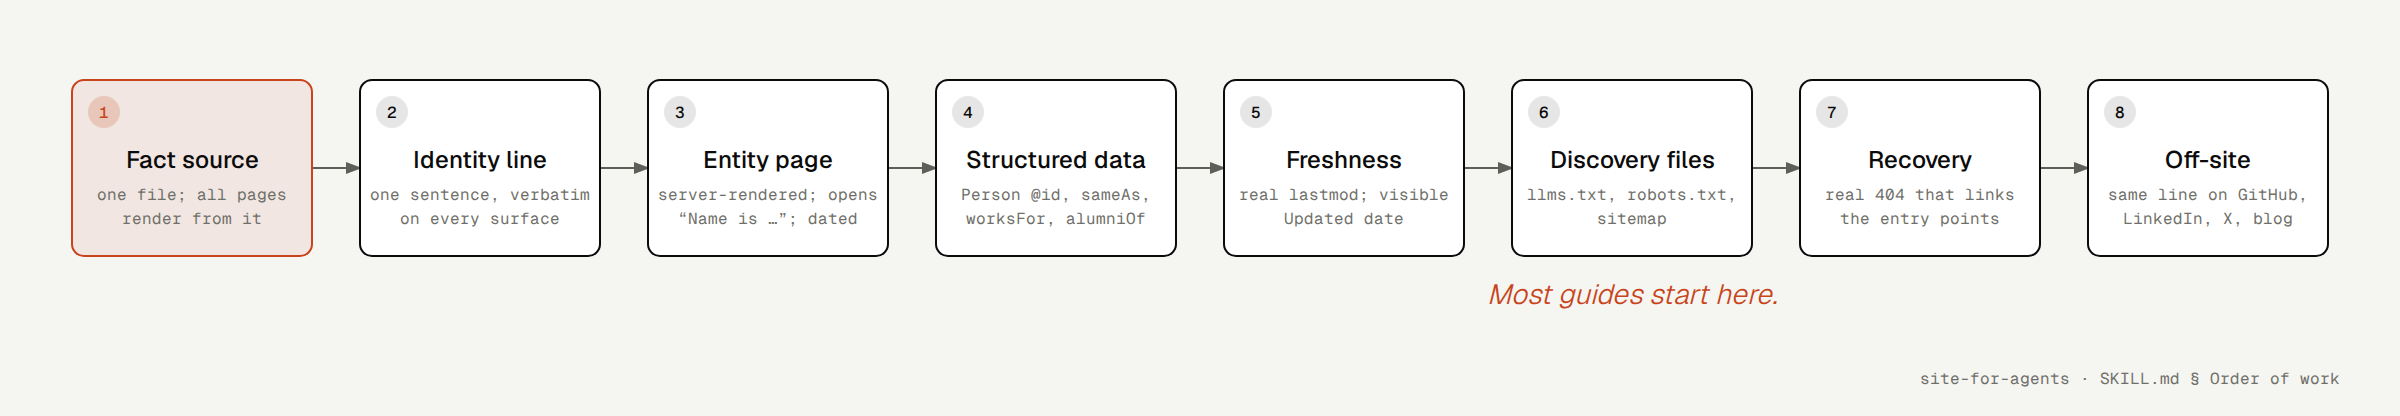
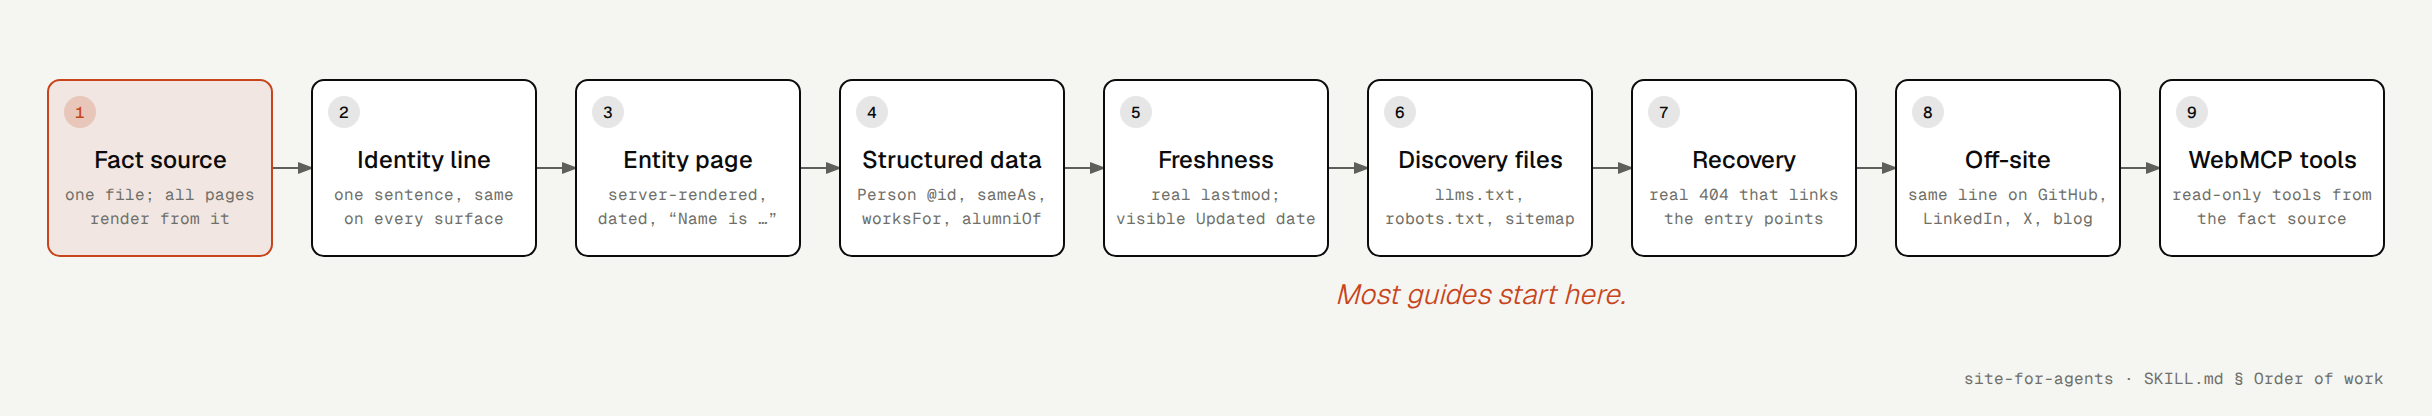
Order-of-work figure: nine steps, adds WebMCP tools

diff --git a/docs/diagrams/order-of-work-dark.html b/docs/diagrams/order-of-work-dark.html
@@ -3,7 +3,7 @@
 <head>
   <meta charset="UTF-8">
   <meta name="viewport" content="width=device-width, initial-scale=1.0">
-  <title>Eight steps, in order</title>
+  <title>Nine steps, in order</title>
   <link href="https://fonts.googleapis.com/css2?family=Geist:wght@300;400;500;600&family=Geist+Mono:wght@400;500;600&display=swap" rel="stylesheet">
   <style>
     *, *::before, *::after { box-sizing: border-box; margin: 0; padding: 0; }
@@ -23,81 +23,89 @@
 <body>
   <div class="frame">
     <p class="eyebrow">Process · site-for-agents</p>
-    <h1>Eight steps, in order</h1>
-    <svg viewBox="0 0 1200 208" xmlns="http://www.w3.org/2000/svg" role="img" aria-labelledby="order-dark-title order-dark-desc">
+    <h1>Nine steps, in order</h1>
+    <svg viewBox="0 0 1216 208" xmlns="http://www.w3.org/2000/svg" role="img" aria-labelledby="order-dark-title order-dark-desc">
       <title id="order-dark-title">Order of work for an agent-visible personal site</title>
-      <desc id="order-dark-desc">Eight sequential steps: fact source, identity line, entity page, structured data, freshness, discovery files, recovery, off-site profiles; llms.txt sits at step six, where most guides begin.</desc>
+      <desc id="order-dark-desc">Nine sequential steps: fact source, identity line, entity page, structured data, freshness, discovery files, recovery, off-site profiles, WebMCP tools; llms.txt sits at step six, where most guides begin.</desc>
       <defs>
         <marker id="arrow" markerWidth="8" markerHeight="6" refX="7" refY="3" orient="auto"><polygon points="0 0, 8 3, 0 6" fill="#92928c"/></marker>
         <marker id="arrow-accent" markerWidth="8" markerHeight="6" refX="7" refY="3" orient="auto"><polygon points="0 0, 8 3, 0 6" fill="#fe2c02"/></marker>
         <marker id="arrow-link" markerWidth="8" markerHeight="6" refX="7" refY="3" orient="auto"><polygon points="0 0, 8 3, 0 6" fill="#2e5aa8"/></marker>
       </defs>
       <rect width="100%" height="100%" fill="#0b0b0b"/>
-      <line x1="156" y1="84" x2="180" y2="84" stroke="#92928c" stroke-width="1" marker-end="url(#arrow)"/>
-      <line x1="300" y1="84" x2="324" y2="84" stroke="#92928c" stroke-width="1" marker-end="url(#arrow)"/>
-      <line x1="444" y1="84" x2="468" y2="84" stroke="#92928c" stroke-width="1" marker-end="url(#arrow)"/>
-      <line x1="588" y1="84" x2="612" y2="84" stroke="#92928c" stroke-width="1" marker-end="url(#arrow)"/>
-      <line x1="732" y1="84" x2="756" y2="84" stroke="#92928c" stroke-width="1" marker-end="url(#arrow)"/>
-      <line x1="876" y1="84" x2="900" y2="84" stroke="#92928c" stroke-width="1" marker-end="url(#arrow)"/>
-      <line x1="1020" y1="84" x2="1044" y2="84" stroke="#92928c" stroke-width="1" marker-end="url(#arrow)"/>
-      <rect x="36" y="40" width="120" height="88" rx="6" fill="#0b0b0b" />
-      <rect x="36" y="40" width="120" height="88" rx="6" fill="rgba(254,44,2,0.10)" stroke="#fe2c02" stroke-width="1" />
-      <rect x="44" y="48" width="16" height="16" rx="8" fill="rgba(254,44,2,0.20)"/>
-      <text x="52" y="59" fill="#fe2c02" font-size="8" font-weight="500" font-family="'Geist Mono', monospace" text-anchor="middle" >1</text>
-      <text x="96" y="84" fill="#f5f5f2" font-size="12" font-weight="500" font-family="'Geist', 'Atlas Grotesk', sans-serif" text-anchor="middle" >Fact source</text>
-      <text x="96" y="100" fill="#7c7c75" font-size="8" font-weight="400" font-family="'Geist Mono', monospace" text-anchor="middle" >one file; all pages</text>
-      <text x="96" y="112" fill="#7c7c75" font-size="8" font-weight="400" font-family="'Geist Mono', monospace" text-anchor="middle" >render from it</text>
-      <rect x="180" y="40" width="120" height="88" rx="6" fill="#0b0b0b" />
-      <rect x="180" y="40" width="120" height="88" rx="6" fill="#111111" stroke="#f5f5f2" stroke-width="1" />
-      <rect x="188" y="48" width="16" height="16" rx="8" fill="rgba(245,245,242,0.10)"/>
-      <text x="196" y="59" fill="#f5f5f2" font-size="8" font-weight="500" font-family="'Geist Mono', monospace" text-anchor="middle" >2</text>
-      <text x="240" y="84" fill="#f5f5f2" font-size="12" font-weight="500" font-family="'Geist', 'Atlas Grotesk', sans-serif" text-anchor="middle" >Identity line</text>
-      <text x="240" y="100" fill="#7c7c75" font-size="8" font-weight="400" font-family="'Geist Mono', monospace" text-anchor="middle" >one sentence, verbatim</text>
-      <text x="240" y="112" fill="#7c7c75" font-size="8" font-weight="400" font-family="'Geist Mono', monospace" text-anchor="middle" >on every surface</text>
-      <rect x="324" y="40" width="120" height="88" rx="6" fill="#0b0b0b" />
-      <rect x="324" y="40" width="120" height="88" rx="6" fill="#111111" stroke="#f5f5f2" stroke-width="1" />
-      <rect x="332" y="48" width="16" height="16" rx="8" fill="rgba(245,245,242,0.10)"/>
-      <text x="340" y="59" fill="#f5f5f2" font-size="8" font-weight="500" font-family="'Geist Mono', monospace" text-anchor="middle" >3</text>
-      <text x="384" y="84" fill="#f5f5f2" font-size="12" font-weight="500" font-family="'Geist', 'Atlas Grotesk', sans-serif" text-anchor="middle" >Entity page</text>
-      <text x="384" y="100" fill="#7c7c75" font-size="8" font-weight="400" font-family="'Geist Mono', monospace" text-anchor="middle" >server-rendered; opens</text>
-      <text x="384" y="112" fill="#7c7c75" font-size="8" font-weight="400" font-family="'Geist Mono', monospace" text-anchor="middle" >“Name is …”; dated</text>
-      <rect x="468" y="40" width="120" height="88" rx="6" fill="#0b0b0b" />
-      <rect x="468" y="40" width="120" height="88" rx="6" fill="#111111" stroke="#f5f5f2" stroke-width="1" />
-      <rect x="476" y="48" width="16" height="16" rx="8" fill="rgba(245,245,242,0.10)"/>
-      <text x="484" y="59" fill="#f5f5f2" font-size="8" font-weight="500" font-family="'Geist Mono', monospace" text-anchor="middle" >4</text>
-      <text x="528" y="84" fill="#f5f5f2" font-size="12" font-weight="500" font-family="'Geist', 'Atlas Grotesk', sans-serif" text-anchor="middle" >Structured data</text>
-      <text x="528" y="100" fill="#7c7c75" font-size="8" font-weight="400" font-family="'Geist Mono', monospace" text-anchor="middle" >Person @id, sameAs,</text>
-      <text x="528" y="112" fill="#7c7c75" font-size="8" font-weight="400" font-family="'Geist Mono', monospace" text-anchor="middle" >worksFor, alumniOf</text>
-      <rect x="612" y="40" width="120" height="88" rx="6" fill="#0b0b0b" />
-      <rect x="612" y="40" width="120" height="88" rx="6" fill="#111111" stroke="#f5f5f2" stroke-width="1" />
-      <rect x="620" y="48" width="16" height="16" rx="8" fill="rgba(245,245,242,0.10)"/>
-      <text x="628" y="59" fill="#f5f5f2" font-size="8" font-weight="500" font-family="'Geist Mono', monospace" text-anchor="middle" >5</text>
-      <text x="672" y="84" fill="#f5f5f2" font-size="12" font-weight="500" font-family="'Geist', 'Atlas Grotesk', sans-serif" text-anchor="middle" >Freshness</text>
-      <text x="672" y="100" fill="#7c7c75" font-size="8" font-weight="400" font-family="'Geist Mono', monospace" text-anchor="middle" >real lastmod; visible</text>
-      <text x="672" y="112" fill="#7c7c75" font-size="8" font-weight="400" font-family="'Geist Mono', monospace" text-anchor="middle" >Updated date</text>
-      <rect x="756" y="40" width="120" height="88" rx="6" fill="#0b0b0b" />
-      <rect x="756" y="40" width="120" height="88" rx="6" fill="#111111" stroke="#f5f5f2" stroke-width="1" />
-      <rect x="764" y="48" width="16" height="16" rx="8" fill="rgba(245,245,242,0.10)"/>
-      <text x="772" y="59" fill="#f5f5f2" font-size="8" font-weight="500" font-family="'Geist Mono', monospace" text-anchor="middle" >6</text>
-      <text x="816" y="84" fill="#f5f5f2" font-size="12" font-weight="500" font-family="'Geist', 'Atlas Grotesk', sans-serif" text-anchor="middle" >Discovery files</text>
-      <text x="816" y="100" fill="#7c7c75" font-size="8" font-weight="400" font-family="'Geist Mono', monospace" text-anchor="middle" >llms.txt, robots.txt,</text>
-      <text x="816" y="112" fill="#7c7c75" font-size="8" font-weight="400" font-family="'Geist Mono', monospace" text-anchor="middle" >sitemap</text>
-      <rect x="900" y="40" width="120" height="88" rx="6" fill="#0b0b0b" />
-      <rect x="900" y="40" width="120" height="88" rx="6" fill="#111111" stroke="#f5f5f2" stroke-width="1" />
-      <rect x="908" y="48" width="16" height="16" rx="8" fill="rgba(245,245,242,0.10)"/>
-      <text x="916" y="59" fill="#f5f5f2" font-size="8" font-weight="500" font-family="'Geist Mono', monospace" text-anchor="middle" >7</text>
-      <text x="960" y="84" fill="#f5f5f2" font-size="12" font-weight="500" font-family="'Geist', 'Atlas Grotesk', sans-serif" text-anchor="middle" >Recovery</text>
-      <text x="960" y="100" fill="#7c7c75" font-size="8" font-weight="400" font-family="'Geist Mono', monospace" text-anchor="middle" >real 404 that links</text>
-      <text x="960" y="112" fill="#7c7c75" font-size="8" font-weight="400" font-family="'Geist Mono', monospace" text-anchor="middle" >the entry points</text>
-      <rect x="1044" y="40" width="120" height="88" rx="6" fill="#0b0b0b" />
-      <rect x="1044" y="40" width="120" height="88" rx="6" fill="#111111" stroke="#f5f5f2" stroke-width="1" />
-      <rect x="1052" y="48" width="16" height="16" rx="8" fill="rgba(245,245,242,0.10)"/>
-      <text x="1060" y="59" fill="#f5f5f2" font-size="8" font-weight="500" font-family="'Geist Mono', monospace" text-anchor="middle" >8</text>
-      <text x="1104" y="84" fill="#f5f5f2" font-size="12" font-weight="500" font-family="'Geist', 'Atlas Grotesk', sans-serif" text-anchor="middle" >Off-site</text>
-      <text x="1104" y="100" fill="#7c7c75" font-size="8" font-weight="400" font-family="'Geist Mono', monospace" text-anchor="middle" >same line on GitHub,</text>
-      <text x="1104" y="112" fill="#7c7c75" font-size="8" font-weight="400" font-family="'Geist Mono', monospace" text-anchor="middle" >LinkedIn, X, blog</text>
-      <text x="816" y="152" fill="#fe2c02" font-size="14" font-weight="300" font-family="'Geist', 'Atlas Grotesk', sans-serif" text-anchor="middle" font-style="italic">Most guides start here.</text>
-      <text x="1170" y="192" fill="#7c7c75" font-size="8" font-weight="400" font-family="'Geist Mono', monospace" text-anchor="end" >site-for-agents · SKILL.md § Order of work</text>
+      <line x1="136" y1="84" x2="156" y2="84" stroke="#92928c" stroke-width="1" marker-end="url(#arrow)"/>
+      <line x1="268" y1="84" x2="288" y2="84" stroke="#92928c" stroke-width="1" marker-end="url(#arrow)"/>
+      <line x1="400" y1="84" x2="420" y2="84" stroke="#92928c" stroke-width="1" marker-end="url(#arrow)"/>
+      <line x1="532" y1="84" x2="552" y2="84" stroke="#92928c" stroke-width="1" marker-end="url(#arrow)"/>
+      <line x1="664" y1="84" x2="684" y2="84" stroke="#92928c" stroke-width="1" marker-end="url(#arrow)"/>
+      <line x1="796" y1="84" x2="816" y2="84" stroke="#92928c" stroke-width="1" marker-end="url(#arrow)"/>
+      <line x1="928" y1="84" x2="948" y2="84" stroke="#92928c" stroke-width="1" marker-end="url(#arrow)"/>
+      <line x1="1060" y1="84" x2="1080" y2="84" stroke="#92928c" stroke-width="1" marker-end="url(#arrow)"/>
+      <rect x="24" y="40" width="112" height="88" rx="6" fill="#0b0b0b" />
+      <rect x="24" y="40" width="112" height="88" rx="6" fill="rgba(254,44,2,0.10)" stroke="#fe2c02" stroke-width="1" />
+      <rect x="32" y="48" width="16" height="16" rx="8" fill="rgba(254,44,2,0.20)"/>
+      <text x="40" y="59" fill="#fe2c02" font-size="8" font-weight="500" font-family="'Geist Mono', monospace" text-anchor="middle" >1</text>
+      <text x="80" y="84" fill="#f5f5f2" font-size="12" font-weight="500" font-family="'Geist', 'Atlas Grotesk', sans-serif" text-anchor="middle" >Fact source</text>
+      <text x="80" y="100" fill="#7c7c75" font-size="8" font-weight="400" font-family="'Geist Mono', monospace" text-anchor="middle" >one file; all pages</text>
+      <text x="80" y="112" fill="#7c7c75" font-size="8" font-weight="400" font-family="'Geist Mono', monospace" text-anchor="middle" >render from it</text>
+      <rect x="156" y="40" width="112" height="88" rx="6" fill="#0b0b0b" />
+      <rect x="156" y="40" width="112" height="88" rx="6" fill="#111111" stroke="#f5f5f2" stroke-width="1" />
+      <rect x="164" y="48" width="16" height="16" rx="8" fill="rgba(245,245,242,0.10)"/>
+      <text x="172" y="59" fill="#f5f5f2" font-size="8" font-weight="500" font-family="'Geist Mono', monospace" text-anchor="middle" >2</text>
+      <text x="212" y="84" fill="#f5f5f2" font-size="12" font-weight="500" font-family="'Geist', 'Atlas Grotesk', sans-serif" text-anchor="middle" >Identity line</text>
+      <text x="212" y="100" fill="#7c7c75" font-size="8" font-weight="400" font-family="'Geist Mono', monospace" text-anchor="middle" >one sentence, same</text>
+      <text x="212" y="112" fill="#7c7c75" font-size="8" font-weight="400" font-family="'Geist Mono', monospace" text-anchor="middle" >on every surface</text>
+      <rect x="288" y="40" width="112" height="88" rx="6" fill="#0b0b0b" />
+      <rect x="288" y="40" width="112" height="88" rx="6" fill="#111111" stroke="#f5f5f2" stroke-width="1" />
+      <rect x="296" y="48" width="16" height="16" rx="8" fill="rgba(245,245,242,0.10)"/>
+      <text x="304" y="59" fill="#f5f5f2" font-size="8" font-weight="500" font-family="'Geist Mono', monospace" text-anchor="middle" >3</text>
+      <text x="344" y="84" fill="#f5f5f2" font-size="12" font-weight="500" font-family="'Geist', 'Atlas Grotesk', sans-serif" text-anchor="middle" >Entity page</text>
+      <text x="344" y="100" fill="#7c7c75" font-size="8" font-weight="400" font-family="'Geist Mono', monospace" text-anchor="middle" >server-rendered,</text>
+      <text x="344" y="112" fill="#7c7c75" font-size="8" font-weight="400" font-family="'Geist Mono', monospace" text-anchor="middle" >dated, “Name is …”</text>
+      <rect x="420" y="40" width="112" height="88" rx="6" fill="#0b0b0b" />
+      <rect x="420" y="40" width="112" height="88" rx="6" fill="#111111" stroke="#f5f5f2" stroke-width="1" />
+      <rect x="428" y="48" width="16" height="16" rx="8" fill="rgba(245,245,242,0.10)"/>
+      <text x="436" y="59" fill="#f5f5f2" font-size="8" font-weight="500" font-family="'Geist Mono', monospace" text-anchor="middle" >4</text>
+      <text x="476" y="84" fill="#f5f5f2" font-size="12" font-weight="500" font-family="'Geist', 'Atlas Grotesk', sans-serif" text-anchor="middle" >Structured data</text>
+      <text x="476" y="100" fill="#7c7c75" font-size="8" font-weight="400" font-family="'Geist Mono', monospace" text-anchor="middle" >Person @id, sameAs,</text>
+      <text x="476" y="112" fill="#7c7c75" font-size="8" font-weight="400" font-family="'Geist Mono', monospace" text-anchor="middle" >worksFor, alumniOf</text>
+      <rect x="552" y="40" width="112" height="88" rx="6" fill="#0b0b0b" />
+      <rect x="552" y="40" width="112" height="88" rx="6" fill="#111111" stroke="#f5f5f2" stroke-width="1" />
+      <rect x="560" y="48" width="16" height="16" rx="8" fill="rgba(245,245,242,0.10)"/>
+      <text x="568" y="59" fill="#f5f5f2" font-size="8" font-weight="500" font-family="'Geist Mono', monospace" text-anchor="middle" >5</text>
+      <text x="608" y="84" fill="#f5f5f2" font-size="12" font-weight="500" font-family="'Geist', 'Atlas Grotesk', sans-serif" text-anchor="middle" >Freshness</text>
+      <text x="608" y="100" fill="#7c7c75" font-size="8" font-weight="400" font-family="'Geist Mono', monospace" text-anchor="middle" >real lastmod;</text>
+      <text x="608" y="112" fill="#7c7c75" font-size="8" font-weight="400" font-family="'Geist Mono', monospace" text-anchor="middle" >visible Updated date</text>
+      <rect x="684" y="40" width="112" height="88" rx="6" fill="#0b0b0b" />
+      <rect x="684" y="40" width="112" height="88" rx="6" fill="#111111" stroke="#f5f5f2" stroke-width="1" />
+      <rect x="692" y="48" width="16" height="16" rx="8" fill="rgba(245,245,242,0.10)"/>
+      <text x="700" y="59" fill="#f5f5f2" font-size="8" font-weight="500" font-family="'Geist Mono', monospace" text-anchor="middle" >6</text>
+      <text x="740" y="84" fill="#f5f5f2" font-size="12" font-weight="500" font-family="'Geist', 'Atlas Grotesk', sans-serif" text-anchor="middle" >Discovery files</text>
+      <text x="740" y="100" fill="#7c7c75" font-size="8" font-weight="400" font-family="'Geist Mono', monospace" text-anchor="middle" >llms.txt,</text>
+      <text x="740" y="112" fill="#7c7c75" font-size="8" font-weight="400" font-family="'Geist Mono', monospace" text-anchor="middle" >robots.txt, sitemap</text>
+      <rect x="816" y="40" width="112" height="88" rx="6" fill="#0b0b0b" />
+      <rect x="816" y="40" width="112" height="88" rx="6" fill="#111111" stroke="#f5f5f2" stroke-width="1" />
+      <rect x="824" y="48" width="16" height="16" rx="8" fill="rgba(245,245,242,0.10)"/>
+      <text x="832" y="59" fill="#f5f5f2" font-size="8" font-weight="500" font-family="'Geist Mono', monospace" text-anchor="middle" >7</text>
+      <text x="872" y="84" fill="#f5f5f2" font-size="12" font-weight="500" font-family="'Geist', 'Atlas Grotesk', sans-serif" text-anchor="middle" >Recovery</text>
+      <text x="872" y="100" fill="#7c7c75" font-size="8" font-weight="400" font-family="'Geist Mono', monospace" text-anchor="middle" >real 404 that links</text>
+      <text x="872" y="112" fill="#7c7c75" font-size="8" font-weight="400" font-family="'Geist Mono', monospace" text-anchor="middle" >the entry points</text>
+      <rect x="948" y="40" width="112" height="88" rx="6" fill="#0b0b0b" />
+      <rect x="948" y="40" width="112" height="88" rx="6" fill="#111111" stroke="#f5f5f2" stroke-width="1" />
+      <rect x="956" y="48" width="16" height="16" rx="8" fill="rgba(245,245,242,0.10)"/>
+      <text x="964" y="59" fill="#f5f5f2" font-size="8" font-weight="500" font-family="'Geist Mono', monospace" text-anchor="middle" >8</text>
+      <text x="1004" y="84" fill="#f5f5f2" font-size="12" font-weight="500" font-family="'Geist', 'Atlas Grotesk', sans-serif" text-anchor="middle" >Off-site</text>
+      <text x="1004" y="100" fill="#7c7c75" font-size="8" font-weight="400" font-family="'Geist Mono', monospace" text-anchor="middle" >same line on GitHub,</text>
+      <text x="1004" y="112" fill="#7c7c75" font-size="8" font-weight="400" font-family="'Geist Mono', monospace" text-anchor="middle" >LinkedIn, X, blog</text>
+      <rect x="1080" y="40" width="112" height="88" rx="6" fill="#0b0b0b" />
+      <rect x="1080" y="40" width="112" height="88" rx="6" fill="#111111" stroke="#f5f5f2" stroke-width="1" />
+      <rect x="1088" y="48" width="16" height="16" rx="8" fill="rgba(245,245,242,0.10)"/>
+      <text x="1096" y="59" fill="#f5f5f2" font-size="8" font-weight="500" font-family="'Geist Mono', monospace" text-anchor="middle" >9</text>
+      <text x="1136" y="84" fill="#f5f5f2" font-size="12" font-weight="500" font-family="'Geist', 'Atlas Grotesk', sans-serif" text-anchor="middle" >WebMCP tools</text>
+      <text x="1136" y="100" fill="#7c7c75" font-size="8" font-weight="400" font-family="'Geist Mono', monospace" text-anchor="middle" >read-only tools from</text>
+      <text x="1136" y="112" fill="#7c7c75" font-size="8" font-weight="400" font-family="'Geist Mono', monospace" text-anchor="middle" >the fact source</text>
+      <text x="740" y="152" fill="#fe2c02" font-size="14" font-weight="300" font-family="'Geist', 'Atlas Grotesk', sans-serif" text-anchor="middle" font-style="italic">Most guides start here.</text>
+      <text x="1192" y="192" fill="#7c7c75" font-size="8" font-weight="400" font-family="'Geist Mono', monospace" text-anchor="end" >site-for-agents · SKILL.md § Order of work</text>
     </svg>
   </div>
 </body>

diff --git a/docs/diagrams/order-of-work.html b/docs/diagrams/order-of-work.html
@@ -3,7 +3,7 @@
 <head>
   <meta charset="UTF-8">
   <meta name="viewport" content="width=device-width, initial-scale=1.0">
-  <title>Eight steps, in order</title>
+  <title>Nine steps, in order</title>
   <link href="https://fonts.googleapis.com/css2?family=Geist:wght@300;400;500;600&family=Geist+Mono:wght@400;500;600&display=swap" rel="stylesheet">
   <style>
     *, *::before, *::after { box-sizing: border-box; margin: 0; padding: 0; }
@@ -23,81 +23,89 @@
 <body>
   <div class="frame">
     <p class="eyebrow">Process · site-for-agents</p>
-    <h1>Eight steps, in order</h1>
-    <svg viewBox="0 0 1200 208" xmlns="http://www.w3.org/2000/svg" role="img" aria-labelledby="order-title order-desc">
+    <h1>Nine steps, in order</h1>
+    <svg viewBox="0 0 1216 208" xmlns="http://www.w3.org/2000/svg" role="img" aria-labelledby="order-title order-desc">
       <title id="order-title">Order of work for an agent-visible personal site</title>
-      <desc id="order-desc">Eight sequential steps: fact source, identity line, entity page, structured data, freshness, discovery files, recovery, off-site profiles; llms.txt sits at step six, where most guides begin.</desc>
+      <desc id="order-desc">Nine sequential steps: fact source, identity line, entity page, structured data, freshness, discovery files, recovery, off-site profiles, WebMCP tools; llms.txt sits at step six, where most guides begin.</desc>
       <defs>
         <marker id="arrow" markerWidth="8" markerHeight="6" refX="7" refY="3" orient="auto"><polygon points="0 0, 8 3, 0 6" fill="#5f5f5a"/></marker>
         <marker id="arrow-accent" markerWidth="8" markerHeight="6" refX="7" refY="3" orient="auto"><polygon points="0 0, 8 3, 0 6" fill="#c8441a"/></marker>
         <marker id="arrow-link" markerWidth="8" markerHeight="6" refX="7" refY="3" orient="auto"><polygon points="0 0, 8 3, 0 6" fill="#2e5aa8"/></marker>
       </defs>
       <rect width="100%" height="100%" fill="#f5f5f2"/>
-      <line x1="156" y1="84" x2="180" y2="84" stroke="#5f5f5a" stroke-width="1" marker-end="url(#arrow)"/>
-      <line x1="300" y1="84" x2="324" y2="84" stroke="#5f5f5a" stroke-width="1" marker-end="url(#arrow)"/>
-      <line x1="444" y1="84" x2="468" y2="84" stroke="#5f5f5a" stroke-width="1" marker-end="url(#arrow)"/>
-      <line x1="588" y1="84" x2="612" y2="84" stroke="#5f5f5a" stroke-width="1" marker-end="url(#arrow)"/>
-      <line x1="732" y1="84" x2="756" y2="84" stroke="#5f5f5a" stroke-width="1" marker-end="url(#arrow)"/>
-      <line x1="876" y1="84" x2="900" y2="84" stroke="#5f5f5a" stroke-width="1" marker-end="url(#arrow)"/>
-      <line x1="1020" y1="84" x2="1044" y2="84" stroke="#5f5f5a" stroke-width="1" marker-end="url(#arrow)"/>
-      <rect x="36" y="40" width="120" height="88" rx="6" fill="#f5f5f2" />
-      <rect x="36" y="40" width="120" height="88" rx="6" fill="rgba(200,68,26,0.08)" stroke="#c8441a" stroke-width="1" />
-      <rect x="44" y="48" width="16" height="16" rx="8" fill="rgba(200,68,26,0.20)"/>
-      <text x="52" y="59" fill="#c8441a" font-size="8" font-weight="500" font-family="'Geist Mono', monospace" text-anchor="middle" >1</text>
-      <text x="96" y="84" fill="#0b0b0b" font-size="12" font-weight="500" font-family="'Geist', 'Atlas Grotesk', sans-serif" text-anchor="middle" >Fact source</text>
-      <text x="96" y="100" fill="#6f6f69" font-size="8" font-weight="400" font-family="'Geist Mono', monospace" text-anchor="middle" >one file; all pages</text>
-      <text x="96" y="112" fill="#6f6f69" font-size="8" font-weight="400" font-family="'Geist Mono', monospace" text-anchor="middle" >render from it</text>
-      <rect x="180" y="40" width="120" height="88" rx="6" fill="#f5f5f2" />
-      <rect x="180" y="40" width="120" height="88" rx="6" fill="#ffffff" stroke="#0b0b0b" stroke-width="1" />
-      <rect x="188" y="48" width="16" height="16" rx="8" fill="rgba(11,11,11,0.10)"/>
-      <text x="196" y="59" fill="#0b0b0b" font-size="8" font-weight="500" font-family="'Geist Mono', monospace" text-anchor="middle" >2</text>
-      <text x="240" y="84" fill="#0b0b0b" font-size="12" font-weight="500" font-family="'Geist', 'Atlas Grotesk', sans-serif" text-anchor="middle" >Identity line</text>
-      <text x="240" y="100" fill="#6f6f69" font-size="8" font-weight="400" font-family="'Geist Mono', monospace" text-anchor="middle" >one sentence, verbatim</text>
-      <text x="240" y="112" fill="#6f6f69" font-size="8" font-weight="400" font-family="'Geist Mono', monospace" text-anchor="middle" >on every surface</text>
-      <rect x="324" y="40" width="120" height="88" rx="6" fill="#f5f5f2" />
-      <rect x="324" y="40" width="120" height="88" rx="6" fill="#ffffff" stroke="#0b0b0b" stroke-width="1" />
-      <rect x="332" y="48" width="16" height="16" rx="8" fill="rgba(11,11,11,0.10)"/>
-      <text x="340" y="59" fill="#0b0b0b" font-size="8" font-weight="500" font-family="'Geist Mono', monospace" text-anchor="middle" >3</text>
-      <text x="384" y="84" fill="#0b0b0b" font-size="12" font-weight="500" font-family="'Geist', 'Atlas Grotesk', sans-serif" text-anchor="middle" >Entity page</text>
-      <text x="384" y="100" fill="#6f6f69" font-size="8" font-weight="400" font-family="'Geist Mono', monospace" text-anchor="middle" >server-rendered; opens</text>
-      <text x="384" y="112" fill="#6f6f69" font-size="8" font-weight="400" font-family="'Geist Mono', monospace" text-anchor="middle" >“Name is …”; dated</text>
-      <rect x="468" y="40" width="120" height="88" rx="6" fill="#f5f5f2" />
-      <rect x="468" y="40" width="120" height="88" rx="6" fill="#ffffff" stroke="#0b0b0b" stroke-width="1" />
-      <rect x="476" y="48" width="16" height="16" rx="8" fill="rgba(11,11,11,0.10)"/>
-      <text x="484" y="59" fill="#0b0b0b" font-size="8" font-weight="500" font-family="'Geist Mono', monospace" text-anchor="middle" >4</text>
-      <text x="528" y="84" fill="#0b0b0b" font-size="12" font-weight="500" font-family="'Geist', 'Atlas Grotesk', sans-serif" text-anchor="middle" >Structured data</text>
-      <text x="528" y="100" fill="#6f6f69" font-size="8" font-weight="400" font-family="'Geist Mono', monospace" text-anchor="middle" >Person @id, sameAs,</text>
-      <text x="528" y="112" fill="#6f6f69" font-size="8" font-weight="400" font-family="'Geist Mono', monospace" text-anchor="middle" >worksFor, alumniOf</text>
-      <rect x="612" y="40" width="120" height="88" rx="6" fill="#f5f5f2" />
-      <rect x="612" y="40" width="120" height="88" rx="6" fill="#ffffff" stroke="#0b0b0b" stroke-width="1" />
-      <rect x="620" y="48" width="16" height="16" rx="8" fill="rgba(11,11,11,0.10)"/>
-      <text x="628" y="59" fill="#0b0b0b" font-size="8" font-weight="500" font-family="'Geist Mono', monospace" text-anchor="middle" >5</text>
-      <text x="672" y="84" fill="#0b0b0b" font-size="12" font-weight="500" font-family="'Geist', 'Atlas Grotesk', sans-serif" text-anchor="middle" >Freshness</text>
-      <text x="672" y="100" fill="#6f6f69" font-size="8" font-weight="400" font-family="'Geist Mono', monospace" text-anchor="middle" >real lastmod; visible</text>
-      <text x="672" y="112" fill="#6f6f69" font-size="8" font-weight="400" font-family="'Geist Mono', monospace" text-anchor="middle" >Updated date</text>
-      <rect x="756" y="40" width="120" height="88" rx="6" fill="#f5f5f2" />
-      <rect x="756" y="40" width="120" height="88" rx="6" fill="#ffffff" stroke="#0b0b0b" stroke-width="1" />
-      <rect x="764" y="48" width="16" height="16" rx="8" fill="rgba(11,11,11,0.10)"/>
-      <text x="772" y="59" fill="#0b0b0b" font-size="8" font-weight="500" font-family="'Geist Mono', monospace" text-anchor="middle" >6</text>
-      <text x="816" y="84" fill="#0b0b0b" font-size="12" font-weight="500" font-family="'Geist', 'Atlas Grotesk', sans-serif" text-anchor="middle" >Discovery files</text>
-      <text x="816" y="100" fill="#6f6f69" font-size="8" font-weight="400" font-family="'Geist Mono', monospace" text-anchor="middle" >llms.txt, robots.txt,</text>
-      <text x="816" y="112" fill="#6f6f69" font-size="8" font-weight="400" font-family="'Geist Mono', monospace" text-anchor="middle" >sitemap</text>
-      <rect x="900" y="40" width="120" height="88" rx="6" fill="#f5f5f2" />
-      <rect x="900" y="40" width="120" height="88" rx="6" fill="#ffffff" stroke="#0b0b0b" stroke-width="1" />
-      <rect x="908" y="48" width="16" height="16" rx="8" fill="rgba(11,11,11,0.10)"/>
-      <text x="916" y="59" fill="#0b0b0b" font-size="8" font-weight="500" font-family="'Geist Mono', monospace" text-anchor="middle" >7</text>
-      <text x="960" y="84" fill="#0b0b0b" font-size="12" font-weight="500" font-family="'Geist', 'Atlas Grotesk', sans-serif" text-anchor="middle" >Recovery</text>
-      <text x="960" y="100" fill="#6f6f69" font-size="8" font-weight="400" font-family="'Geist Mono', monospace" text-anchor="middle" >real 404 that links</text>
-      <text x="960" y="112" fill="#6f6f69" font-size="8" font-weight="400" font-family="'Geist Mono', monospace" text-anchor="middle" >the entry points</text>
-      <rect x="1044" y="40" width="120" height="88" rx="6" fill="#f5f5f2" />
-      <rect x="1044" y="40" width="120" height="88" rx="6" fill="#ffffff" stroke="#0b0b0b" stroke-width="1" />
-      <rect x="1052" y="48" width="16" height="16" rx="8" fill="rgba(11,11,11,0.10)"/>
-      <text x="1060" y="59" fill="#0b0b0b" font-size="8" font-weight="500" font-family="'Geist Mono', monospace" text-anchor="middle" >8</text>
-      <text x="1104" y="84" fill="#0b0b0b" font-size="12" font-weight="500" font-family="'Geist', 'Atlas Grotesk', sans-serif" text-anchor="middle" >Off-site</text>
-      <text x="1104" y="100" fill="#6f6f69" font-size="8" font-weight="400" font-family="'Geist Mono', monospace" text-anchor="middle" >same line on GitHub,</text>
-      <text x="1104" y="112" fill="#6f6f69" font-size="8" font-weight="400" font-family="'Geist Mono', monospace" text-anchor="middle" >LinkedIn, X, blog</text>
-      <text x="816" y="152" fill="#c8441a" font-size="14" font-weight="300" font-family="'Geist', 'Atlas Grotesk', sans-serif" text-anchor="middle" font-style="italic">Most guides start here.</text>
-      <text x="1170" y="192" fill="#6f6f69" font-size="8" font-weight="400" font-family="'Geist Mono', monospace" text-anchor="end" >site-for-agents · SKILL.md § Order of work</text>
+      <line x1="136" y1="84" x2="156" y2="84" stroke="#5f5f5a" stroke-width="1" marker-end="url(#arrow)"/>
+      <line x1="268" y1="84" x2="288" y2="84" stroke="#5f5f5a" stroke-width="1" marker-end="url(#arrow)"/>
+      <line x1="400" y1="84" x2="420" y2="84" stroke="#5f5f5a" stroke-width="1" marker-end="url(#arrow)"/>
+      <line x1="532" y1="84" x2="552" y2="84" stroke="#5f5f5a" stroke-width="1" marker-end="url(#arrow)"/>
+      <line x1="664" y1="84" x2="684" y2="84" stroke="#5f5f5a" stroke-width="1" marker-end="url(#arrow)"/>
+      <line x1="796" y1="84" x2="816" y2="84" stroke="#5f5f5a" stroke-width="1" marker-end="url(#arrow)"/>
+      <line x1="928" y1="84" x2="948" y2="84" stroke="#5f5f5a" stroke-width="1" marker-end="url(#arrow)"/>
+      <line x1="1060" y1="84" x2="1080" y2="84" stroke="#5f5f5a" stroke-width="1" marker-end="url(#arrow)"/>
+      <rect x="24" y="40" width="112" height="88" rx="6" fill="#f5f5f2" />
+      <rect x="24" y="40" width="112" height="88" rx="6" fill="rgba(200,68,26,0.08)" stroke="#c8441a" stroke-width="1" />
+      <rect x="32" y="48" width="16" height="16" rx="8" fill="rgba(200,68,26,0.20)"/>
+      <text x="40" y="59" fill="#c8441a" font-size="8" font-weight="500" font-family="'Geist Mono', monospace" text-anchor="middle" >1</text>
+      <text x="80" y="84" fill="#0b0b0b" font-size="12" font-weight="500" font-family="'Geist', 'Atlas Grotesk', sans-serif" text-anchor="middle" >Fact source</text>
+      <text x="80" y="100" fill="#6f6f69" font-size="8" font-weight="400" font-family="'Geist Mono', monospace" text-anchor="middle" >one file; all pages</text>
+      <text x="80" y="112" fill="#6f6f69" font-size="8" font-weight="400" font-family="'Geist Mono', monospace" text-anchor="middle" >render from it</text>
+      <rect x="156" y="40" width="112" height="88" rx="6" fill="#f5f5f2" />
+      <rect x="156" y="40" width="112" height="88" rx="6" fill="#ffffff" stroke="#0b0b0b" stroke-width="1" />
+      <rect x="164" y="48" width="16" height="16" rx="8" fill="rgba(11,11,11,0.10)"/>
+      <text x="172" y="59" fill="#0b0b0b" font-size="8" font-weight="500" font-family="'Geist Mono', monospace" text-anchor="middle" >2</text>
+      <text x="212" y="84" fill="#0b0b0b" font-size="12" font-weight="500" font-family="'Geist', 'Atlas Grotesk', sans-serif" text-anchor="middle" >Identity line</text>
+      <text x="212" y="100" fill="#6f6f69" font-size="8" font-weight="400" font-family="'Geist Mono', monospace" text-anchor="middle" >one sentence, same</text>
+      <text x="212" y="112" fill="#6f6f69" font-size="8" font-weight="400" font-family="'Geist Mono', monospace" text-anchor="middle" >on every surface</text>
+      <rect x="288" y="40" width="112" height="88" rx="6" fill="#f5f5f2" />
+      <rect x="288" y="40" width="112" height="88" rx="6" fill="#ffffff" stroke="#0b0b0b" stroke-width="1" />
+      <rect x="296" y="48" width="16" height="16" rx="8" fill="rgba(11,11,11,0.10)"/>
+      <text x="304" y="59" fill="#0b0b0b" font-size="8" font-weight="500" font-family="'Geist Mono', monospace" text-anchor="middle" >3</text>
+      <text x="344" y="84" fill="#0b0b0b" font-size="12" font-weight="500" font-family="'Geist', 'Atlas Grotesk', sans-serif" text-anchor="middle" >Entity page</text>
+      <text x="344" y="100" fill="#6f6f69" font-size="8" font-weight="400" font-family="'Geist Mono', monospace" text-anchor="middle" >server-rendered,</text>
+      <text x="344" y="112" fill="#6f6f69" font-size="8" font-weight="400" font-family="'Geist Mono', monospace" text-anchor="middle" >dated, “Name is …”</text>
+      <rect x="420" y="40" width="112" height="88" rx="6" fill="#f5f5f2" />
+      <rect x="420" y="40" width="112" height="88" rx="6" fill="#ffffff" stroke="#0b0b0b" stroke-width="1" />
+      <rect x="428" y="48" width="16" height="16" rx="8" fill="rgba(11,11,11,0.10)"/>
+      <text x="436" y="59" fill="#0b0b0b" font-size="8" font-weight="500" font-family="'Geist Mono', monospace" text-anchor="middle" >4</text>
+      <text x="476" y="84" fill="#0b0b0b" font-size="12" font-weight="500" font-family="'Geist', 'Atlas Grotesk', sans-serif" text-anchor="middle" >Structured data</text>
+      <text x="476" y="100" fill="#6f6f69" font-size="8" font-weight="400" font-family="'Geist Mono', monospace" text-anchor="middle" >Person @id, sameAs,</text>
+      <text x="476" y="112" fill="#6f6f69" font-size="8" font-weight="400" font-family="'Geist Mono', monospace" text-anchor="middle" >worksFor, alumniOf</text>
+      <rect x="552" y="40" width="112" height="88" rx="6" fill="#f5f5f2" />
+      <rect x="552" y="40" width="112" height="88" rx="6" fill="#ffffff" stroke="#0b0b0b" stroke-width="1" />
+      <rect x="560" y="48" width="16" height="16" rx="8" fill="rgba(11,11,11,0.10)"/>
+      <text x="568" y="59" fill="#0b0b0b" font-size="8" font-weight="500" font-family="'Geist Mono', monospace" text-anchor="middle" >5</text>
+      <text x="608" y="84" fill="#0b0b0b" font-size="12" font-weight="500" font-family="'Geist', 'Atlas Grotesk', sans-serif" text-anchor="middle" >Freshness</text>
+      <text x="608" y="100" fill="#6f6f69" font-size="8" font-weight="400" font-family="'Geist Mono', monospace" text-anchor="middle" >real lastmod;</text>
+      <text x="608" y="112" fill="#6f6f69" font-size="8" font-weight="400" font-family="'Geist Mono', monospace" text-anchor="middle" >visible Updated date</text>
+      <rect x="684" y="40" width="112" height="88" rx="6" fill="#f5f5f2" />
+      <rect x="684" y="40" width="112" height="88" rx="6" fill="#ffffff" stroke="#0b0b0b" stroke-width="1" />
+      <rect x="692" y="48" width="16" height="16" rx="8" fill="rgba(11,11,11,0.10)"/>
+      <text x="700" y="59" fill="#0b0b0b" font-size="8" font-weight="500" font-family="'Geist Mono', monospace" text-anchor="middle" >6</text>
+      <text x="740" y="84" fill="#0b0b0b" font-size="12" font-weight="500" font-family="'Geist', 'Atlas Grotesk', sans-serif" text-anchor="middle" >Discovery files</text>
+      <text x="740" y="100" fill="#6f6f69" font-size="8" font-weight="400" font-family="'Geist Mono', monospace" text-anchor="middle" >llms.txt,</text>
+      <text x="740" y="112" fill="#6f6f69" font-size="8" font-weight="400" font-family="'Geist Mono', monospace" text-anchor="middle" >robots.txt, sitemap</text>
+      <rect x="816" y="40" width="112" height="88" rx="6" fill="#f5f5f2" />
+      <rect x="816" y="40" width="112" height="88" rx="6" fill="#ffffff" stroke="#0b0b0b" stroke-width="1" />
+      <rect x="824" y="48" width="16" height="16" rx="8" fill="rgba(11,11,11,0.10)"/>
+      <text x="832" y="59" fill="#0b0b0b" font-size="8" font-weight="500" font-family="'Geist Mono', monospace" text-anchor="middle" >7</text>
+      <text x="872" y="84" fill="#0b0b0b" font-size="12" font-weight="500" font-family="'Geist', 'Atlas Grotesk', sans-serif" text-anchor="middle" >Recovery</text>
+      <text x="872" y="100" fill="#6f6f69" font-size="8" font-weight="400" font-family="'Geist Mono', monospace" text-anchor="middle" >real 404 that links</text>
+      <text x="872" y="112" fill="#6f6f69" font-size="8" font-weight="400" font-family="'Geist Mono', monospace" text-anchor="middle" >the entry points</text>
+      <rect x="948" y="40" width="112" height="88" rx="6" fill="#f5f5f2" />
+      <rect x="948" y="40" width="112" height="88" rx="6" fill="#ffffff" stroke="#0b0b0b" stroke-width="1" />
+      <rect x="956" y="48" width="16" height="16" rx="8" fill="rgba(11,11,11,0.10)"/>
+      <text x="964" y="59" fill="#0b0b0b" font-size="8" font-weight="500" font-family="'Geist Mono', monospace" text-anchor="middle" >8</text>
+      <text x="1004" y="84" fill="#0b0b0b" font-size="12" font-weight="500" font-family="'Geist', 'Atlas Grotesk', sans-serif" text-anchor="middle" >Off-site</text>
+      <text x="1004" y="100" fill="#6f6f69" font-size="8" font-weight="400" font-family="'Geist Mono', monospace" text-anchor="middle" >same line on GitHub,</text>
+      <text x="1004" y="112" fill="#6f6f69" font-size="8" font-weight="400" font-family="'Geist Mono', monospace" text-anchor="middle" >LinkedIn, X, blog</text>
+      <rect x="1080" y="40" width="112" height="88" rx="6" fill="#f5f5f2" />
+      <rect x="1080" y="40" width="112" height="88" rx="6" fill="#ffffff" stroke="#0b0b0b" stroke-width="1" />
+      <rect x="1088" y="48" width="16" height="16" rx="8" fill="rgba(11,11,11,0.10)"/>
+      <text x="1096" y="59" fill="#0b0b0b" font-size="8" font-weight="500" font-family="'Geist Mono', monospace" text-anchor="middle" >9</text>
+      <text x="1136" y="84" fill="#0b0b0b" font-size="12" font-weight="500" font-family="'Geist', 'Atlas Grotesk', sans-serif" text-anchor="middle" >WebMCP tools</text>
+      <text x="1136" y="100" fill="#6f6f69" font-size="8" font-weight="400" font-family="'Geist Mono', monospace" text-anchor="middle" >read-only tools from</text>
+      <text x="1136" y="112" fill="#6f6f69" font-size="8" font-weight="400" font-family="'Geist Mono', monospace" text-anchor="middle" >the fact source</text>
+      <text x="740" y="152" fill="#c8441a" font-size="14" font-weight="300" font-family="'Geist', 'Atlas Grotesk', sans-serif" text-anchor="middle" font-style="italic">Most guides start here.</text>
+      <text x="1192" y="192" fill="#6f6f69" font-size="8" font-weight="400" font-family="'Geist Mono', monospace" text-anchor="end" >site-for-agents · SKILL.md § Order of work</text>
     </svg>
   </div>
 </body>

diff --git a/README.md b/README.md
@@ -16,7 +16,7 @@ the schema validator, the traps that cost real time (root `index.md`
 hijacking `/`, 404 shells that flash the homepage, testing the alias host
 instead of the canonical one), and a stdlib-only checker.
 
-![Eight steps: fact source, identity line, entity page, structured data, freshness, discovery files, recovery, off-site. llms.txt is step six.](docs/diagrams/order-of-work.png)
+![Nine steps: fact source, identity line, entity page, structured data, freshness, discovery files, recovery, off-site, WebMCP tools. llms.txt is step six.](docs/diagrams/order-of-work.png)
 
 The engines that cite you never run your JavaScript. Only coding agents send
 `Accept: text/markdown`; answer bots fetch the HTML URL and read what is in
